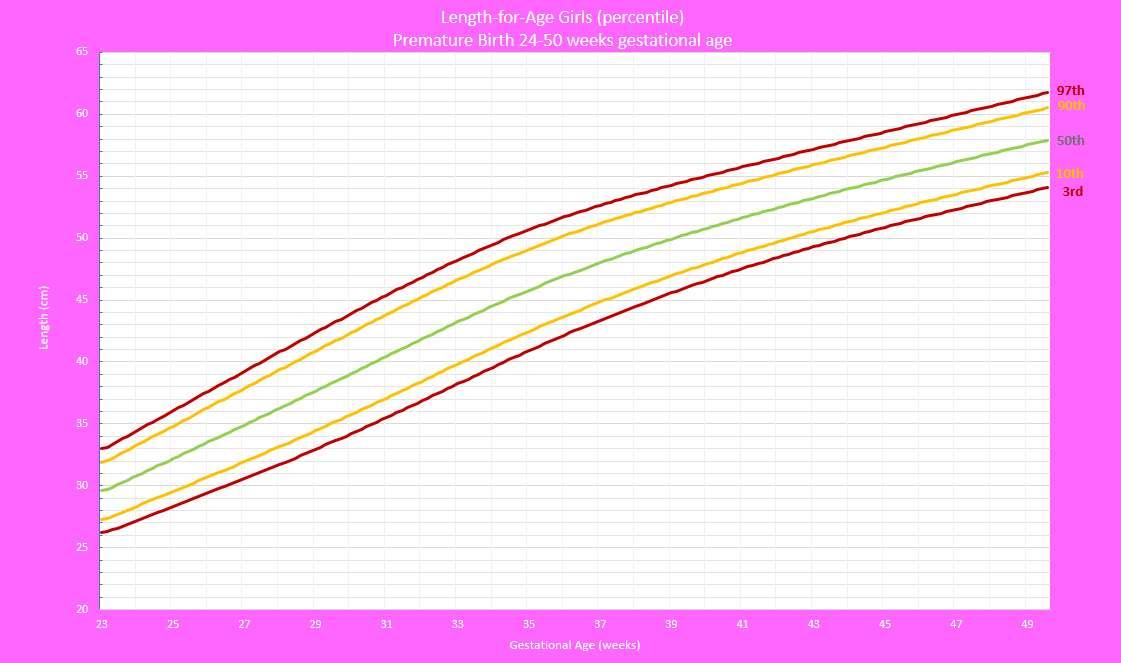
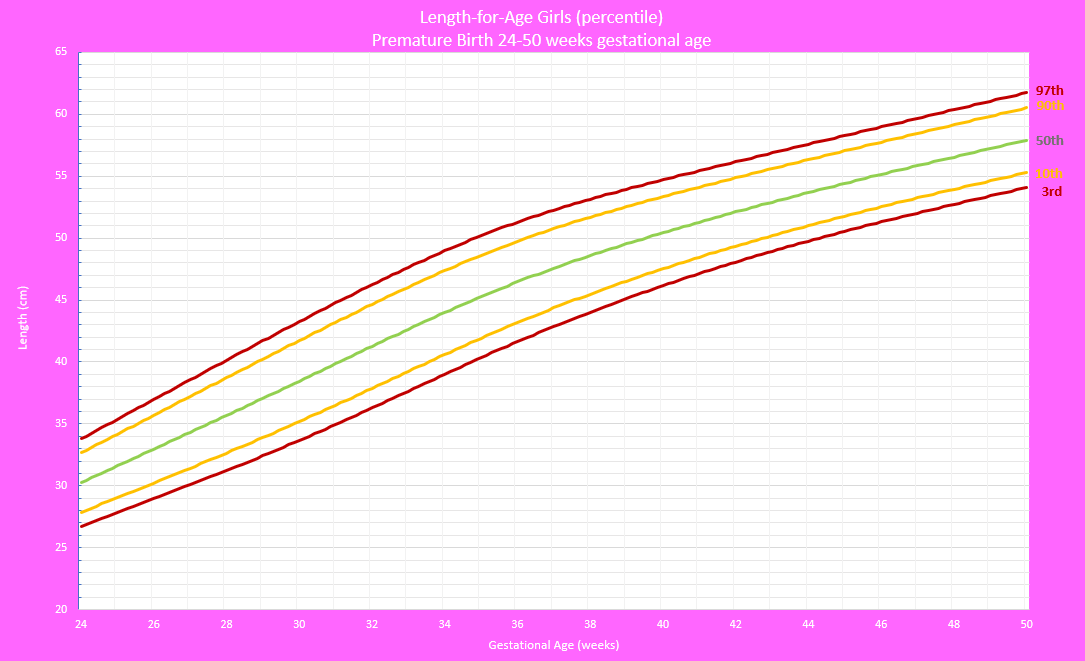
Update charts again based to get full 24-50 week range on x axis

Changed region(s): [[0.0, 0.0605, 0.9733, 0.9985], [0.3346, 0.0, 0.6691, 0.0908]]

diff --git a/HeadCircChart.php b/HeadCircChart.php
@@ -95,13 +95,13 @@ class HeadCircChart extends AbstractExternalModule
 		"headCirc_fenton" => [
 			"boys" => [
 				"imageLocation" => __DIR__ . "/images/fenton_growth_chart_head_circ_boys.PNG",
-				"pixelRange" => [95,57,951,558],
+				"pixelRange" => [81,54,951,558],
 				"graphRange" => [24,50,15,45],
 				"logic" => [["sex","=","1"]]
 			],
 			"girls" => [
 				"imageLocation" => __DIR__ . "/images/fenton_growth_chart_head_circ_girls.PNG",
-				"pixelRange" => [99,54,950,558],
+				"pixelRange" => [82,54,951,558],
 				"graphRange" => [24,50,15,45],
 				"logic" => [["sex","=","2"]]
 			]
@@ -109,13 +109,13 @@ class HeadCircChart extends AbstractExternalModule
 		"height_fenton" => [
 			"boys" => [
 				"imageLocation" => __DIR__ . "/images/fenton_growth_chart_height_boys.PNG",
-				"pixelRange" => [94,47,951,559],
+				"pixelRange" => [84,58,951,559],
 				"graphRange" => [24,50,20,65],
 				"logic" => [["sex","=","1"]]
 			],
 			"girls" => [
 				"imageLocation" => __DIR__ . "/images/fenton_growth_chart_height_girls.PNG",
-				"pixelRange" => [100,53,950,557],
+				"pixelRange" => [79,52,950,557],
 				"graphRange" => [24,50,20,65],
 				"logic" => [["sex","=","2"]]
 			]
@@ -123,13 +123,13 @@ class HeadCircChart extends AbstractExternalModule
 		"weight_fenton" => [
 			"boys" => [
 				"imageLocation" => __DIR__ . "/images/fenton_growth_chart_weight_boys.PNG",
-				"pixelRange" => [100,51,950,560],
+				"pixelRange" => [80,52,950,560],
 				"graphRange" => [23,50,0,8],
 				"logic" => [["sex","=","1"]]
 			],
 			"girls" => [
 				"imageLocation" => __DIR__ . "/images/fenton_growth_chart_weight_girls.PNG",
-				"pixelRange" => [99,54,950,558],
+				"pixelRange" => [72,53,951,558],
 				"graphRange" => [23,50,0,7],
 				"logic" => [["sex","=","2"]]
 			]
